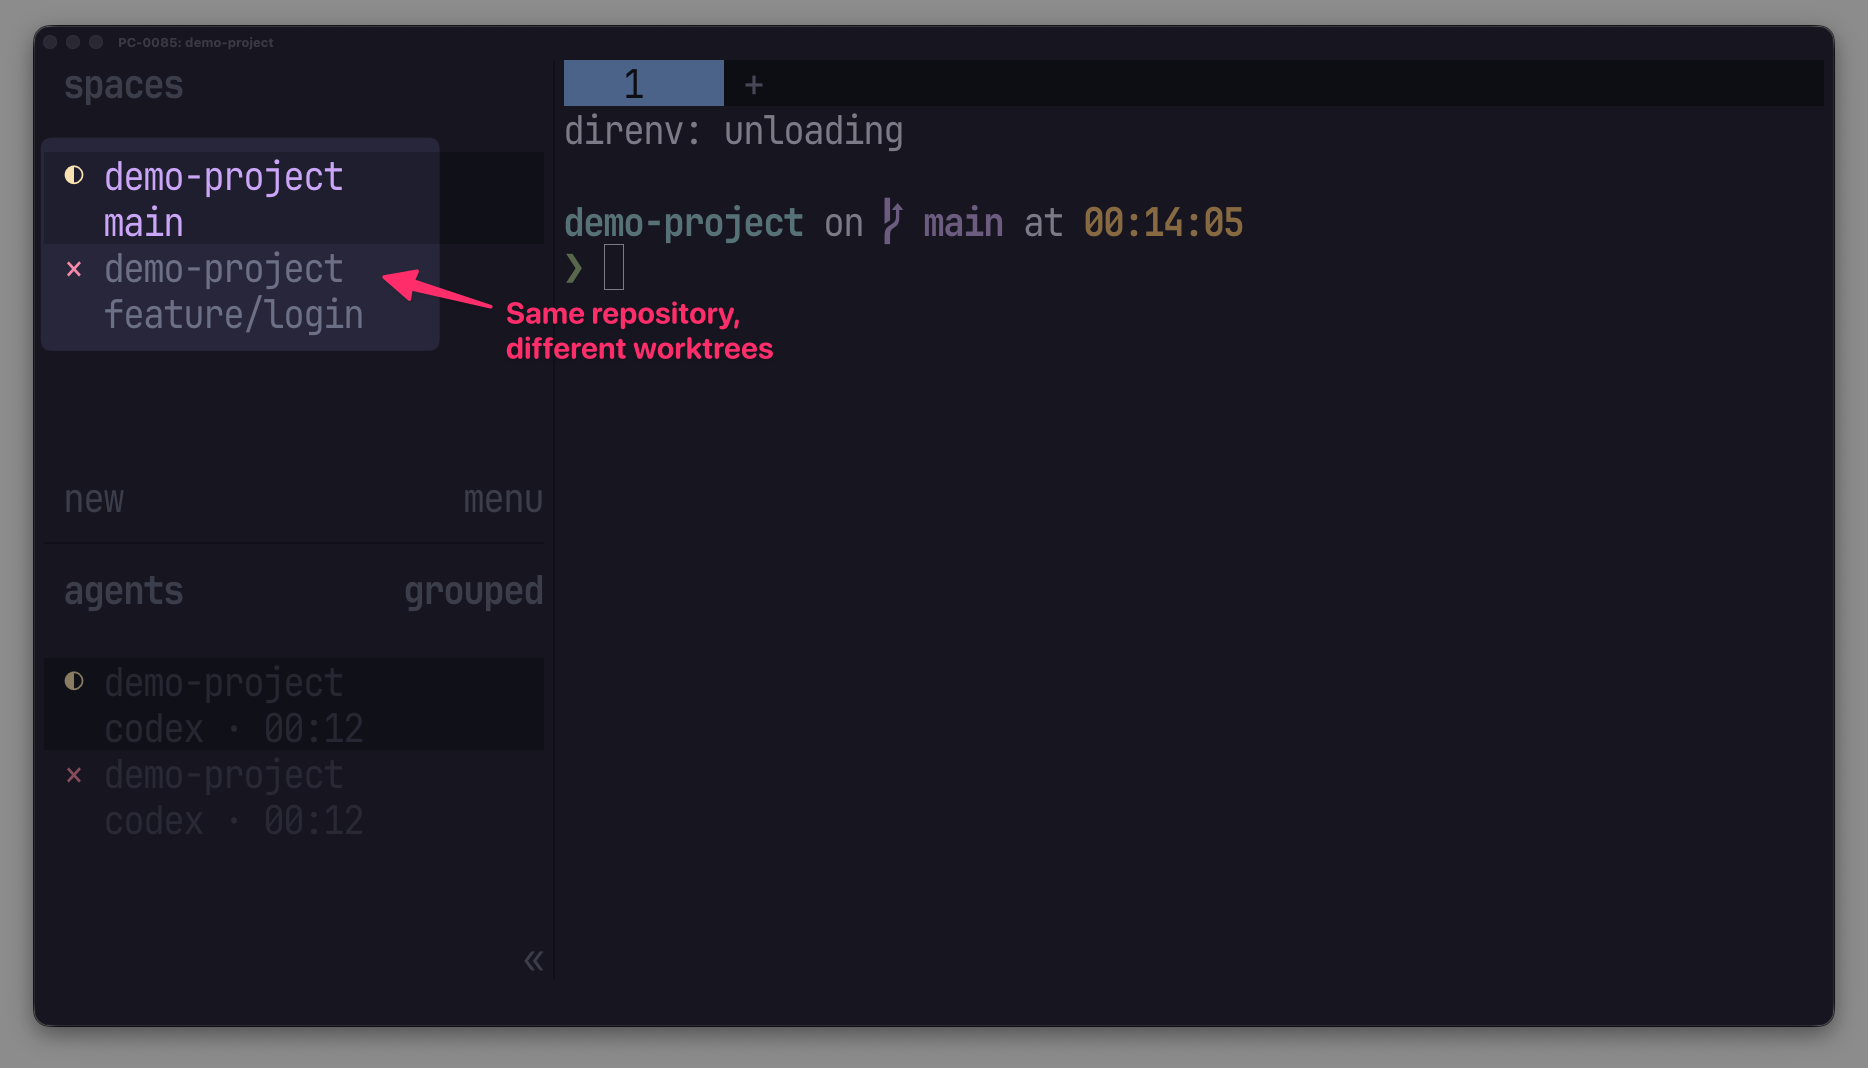
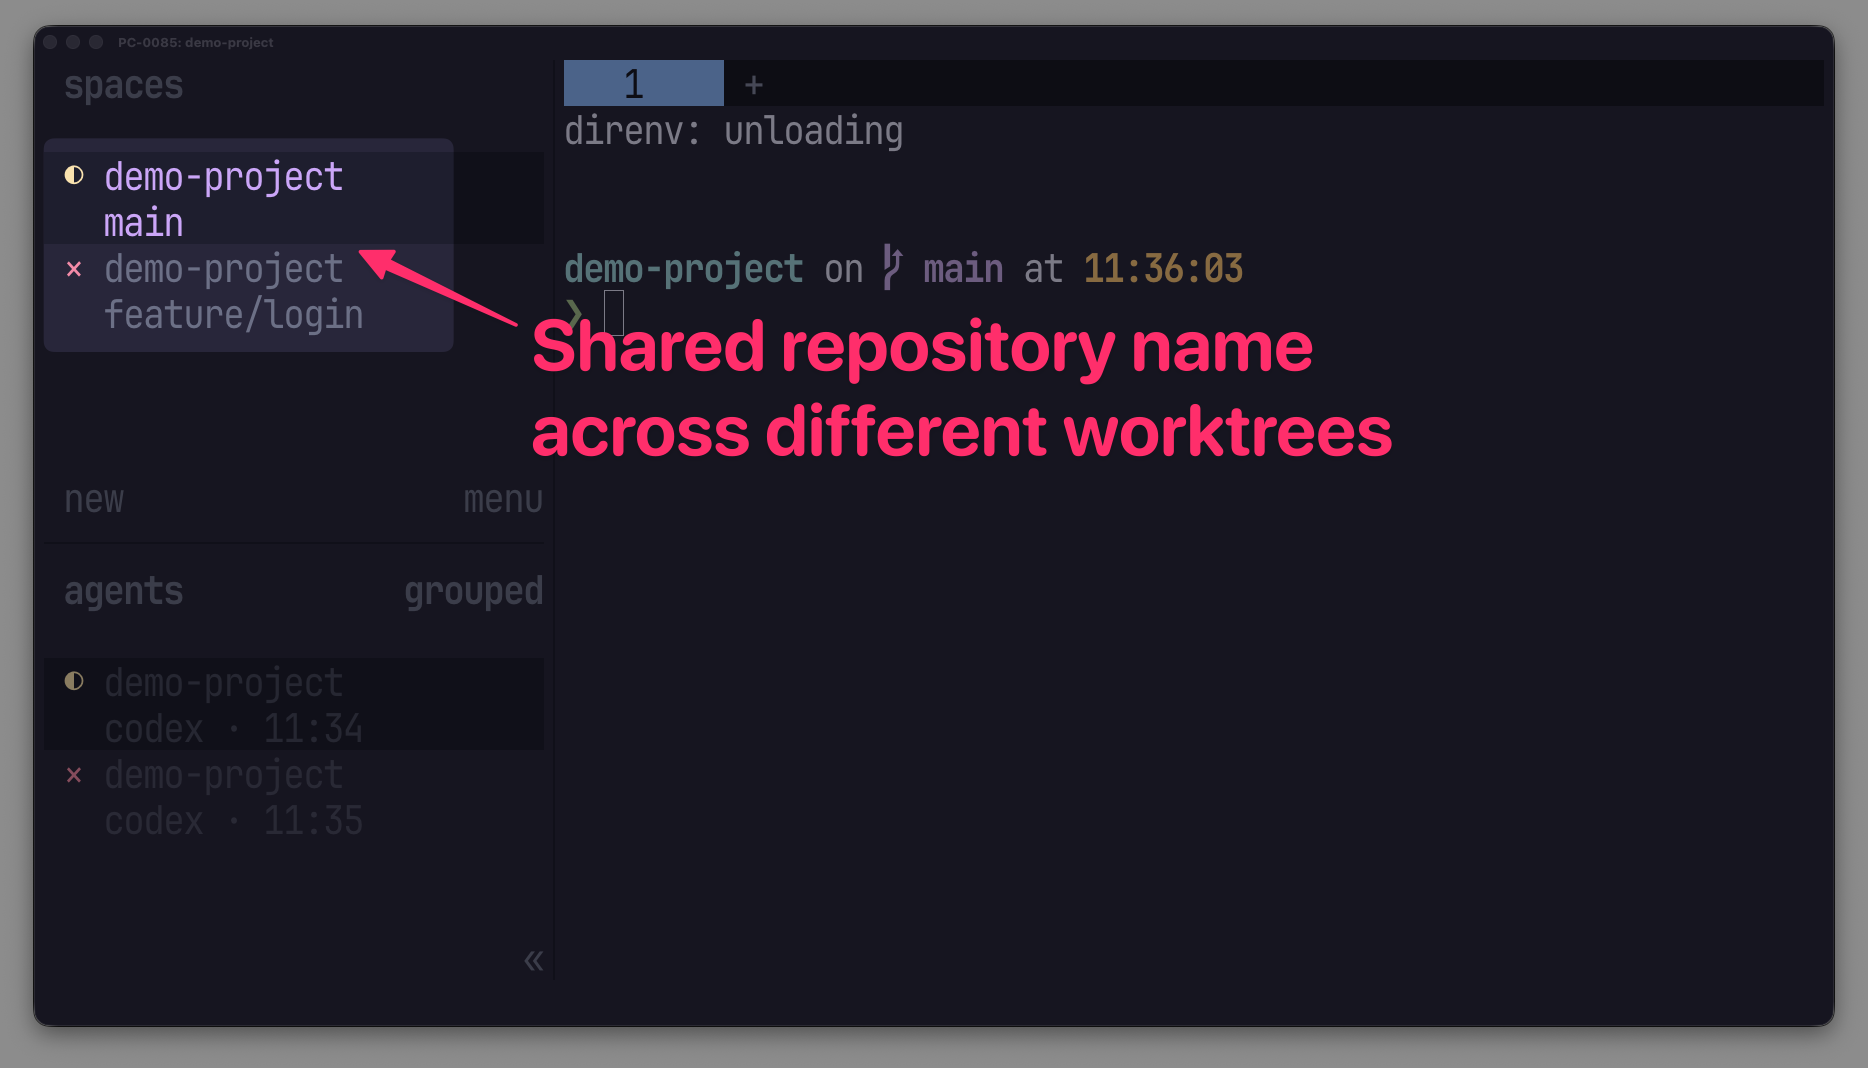
docs: clarify README openings and screenshots

Changed region(s): [[0.1863, 0.1854, 0.7452, 0.4326]]

diff --git a/README.md b/README.md
@@ -1,6 +1,6 @@
 # Herdr Repository Identity
 
-> Add each workspace's shared Git repository name to Herdr's Space sidebar.
+Add each workspace's shared Git repository name to Herdr's Space sidebar.
 
 ![Two worktrees showing the same repository name in Herdr's Spaces sidebar](docs/repository-identity-annotated.png)
 
